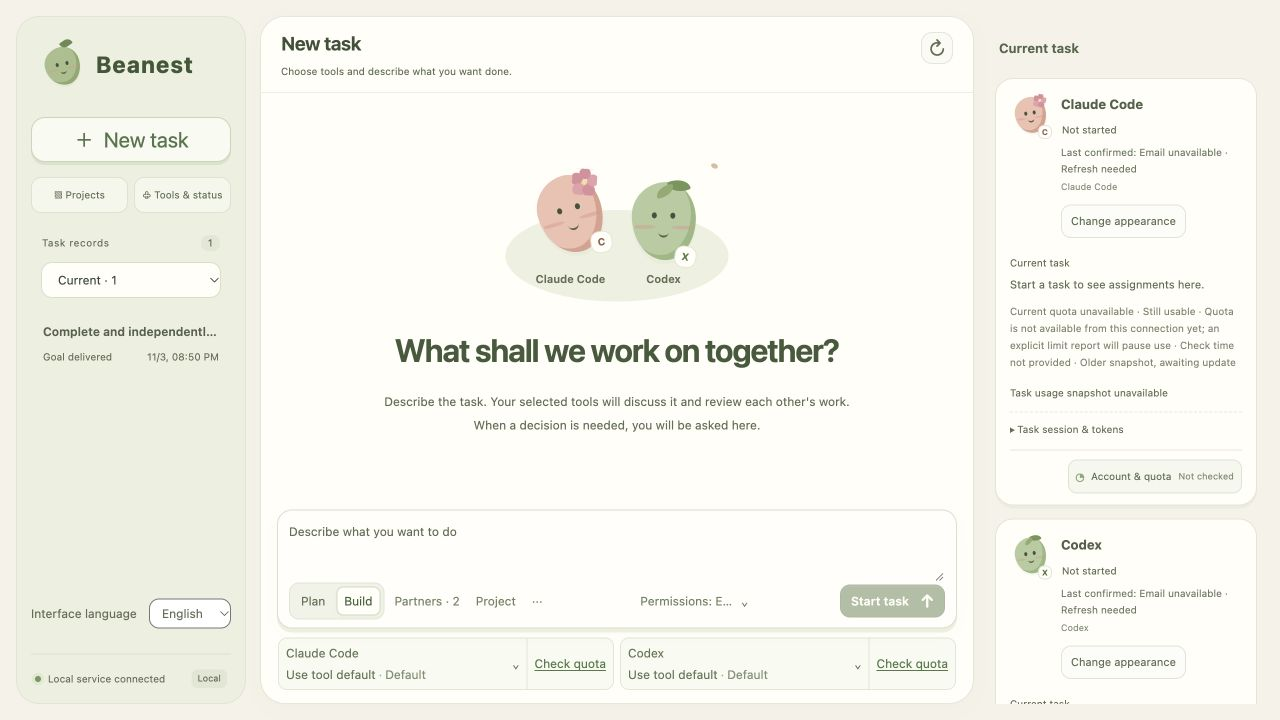
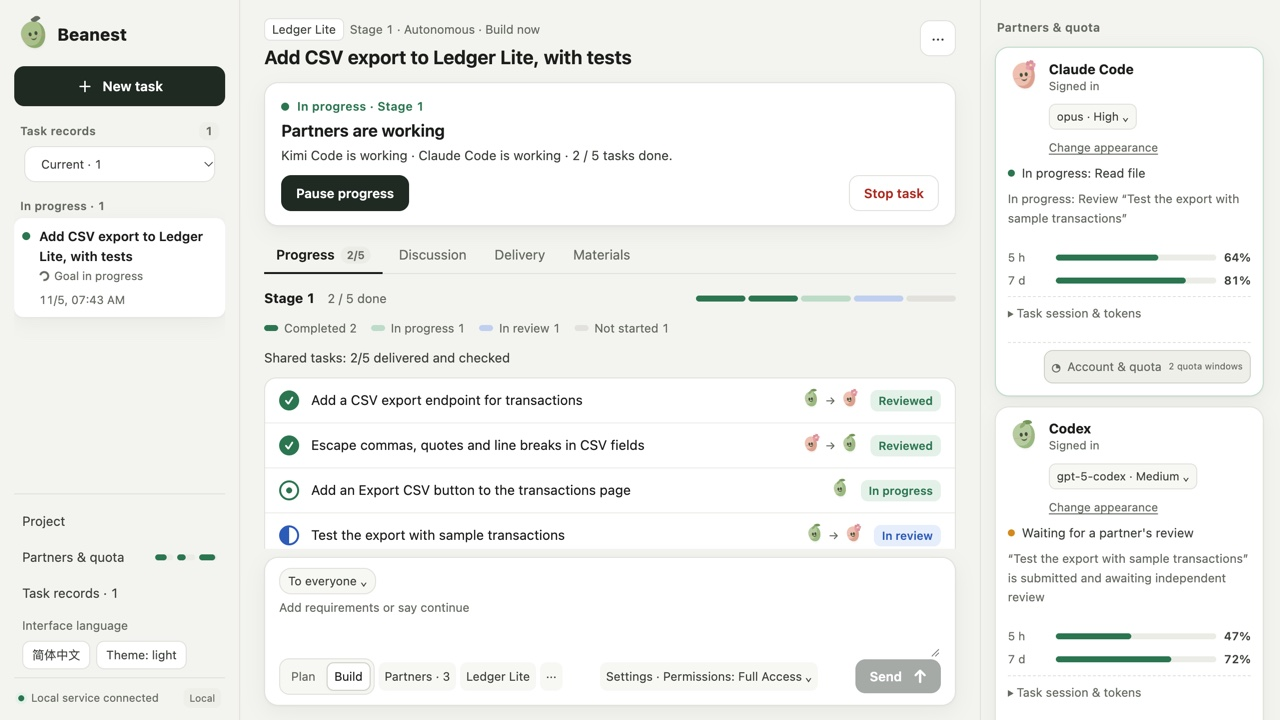
Replace the README screenshots with the new room page on fictional data
The screenshots now show the room page's progress view, light theme, in each
interface language. The room is a fictional "Ledger Lite" CSV export with
Claude Code, Codex and Kimi Code: two tasks peer-reviewed, one in progress,
one in review and one waiting, plus each partner's quota. They come from
scripts/readme-demo.py, which runs a real room server on a throwaway runtime
with stand-in native tools, accounts and model lists, so no model or CLI
runs.

Fixes found while checking the shots at 1280×720:
- partner cards stack name, model and appearance up to 1366px wide, so
  names are not cut;
- the composer's settings button shows the full permission;
- the work strip is hidden outside Discussion, where the card above already
  says who is working, so it no longer covers the task list;
- task titles wrap to two lines in the list, with a 60-character cap;
- "Kimi Code is working" reads as a sentence;
- English "Latest response: " and similar labels end with a space;
- the duplicate tool line is hidden on partner cards;
- the Chinese stage crumb is spaced like the rest.

The dead-key test now counts only whole quoted literals; eight stale
entries it found are removed.

diff --git a/src/local_agent_coordinator/room_ui/i18n-en-c.js b/src/local_agent_coordinator/room_ui/i18n-en-c.js
@@ -57,7 +57,7 @@ Object.assign(window.BeanestI18nEnglish || (window.BeanestI18nEnglish = Object.c
   "调用上限已到": "Call limit reached",
   "本次处理未完成": "This operation did not complete",
   "本轮已停止": "This round has stopped",
-  "协作已停止：": "Collaboration stopped:",
+  "协作已停止：": "Collaboration stopped: ",
   "保留已完成内容，请查看剩余项。": "Completed work is preserved. See the remaining items.",
   "需要你补充信息或作出决定。": "Your input or decision is needed.",
   "正在审核": "Reviewing",
@@ -87,7 +87,7 @@ Object.assign(window.BeanestI18nEnglish || (window.BeanestI18nEnglish = Object.c
   "安排下一步": "Arrange the next step",
   "正在核对本目标的下一阶段安排，没有确认中的在途处理。": "Checking this goal's next stage. No confirmed operation is in progress.",
   "具体阶段待核对。": "The specific stage needs checking.",
-  "处理中 · 最近完成：": "In progress · Last completed:",
+  "处理中 · 最近完成：": "In progress · Last completed: ",
   "正在读文件": "Reading files",
   "正在改文件": "Editing files",
   "正在查找": "Finding items",
@@ -129,8 +129,8 @@ Object.assign(window.BeanestI18nEnglish || (window.BeanestI18nEnglish = Object.c
   "「{p0}」{p1}，具体原因见“进展”": "“{p0}”: {p1}. See Progress for details.",
   "「{p0}」待继续": "“{p0}” to continue",
   "暂无在途任务；交付与验收状态见群聊": "No tasks in progress; see the group chat for delivery and acceptance status",
-  "最近返回异常：": "Latest error:",
-  "最近返回：": "Latest response:",
+  "最近返回异常：": "Latest error: ",
+  "最近返回：": "Latest response: ",
   "还没收到这次工作的进展消息。": "No progress update has been received for this work yet.",
   "暂无在途工作，可在聊天中查看此前进展。": "No work is in progress. Earlier progress is available in the chat.",
   "本次进展原话": "Original progress update",
@@ -237,8 +237,6 @@ Object.assign(window.BeanestI18nEnglish || (window.BeanestI18nEnglish = Object.c
   "这条记录的来源尚未确认。": "The source of this record is unconfirmed.",
   "供应商已明确报告订阅额度用完。已有工具操作不等于任务完成；请查看当前续作入口和额度恢复时间。": "The provider explicitly reported exhausted subscription quota. Tool activity does not mean the task is complete. See current continuation options and quota reset time.",
   "本次处理 {p0} 秒": "This operation took {p0} {p0:second|seconds}",
-  "正在核对下一步": "Checking the next step",
-  "正在讨论": "Discussing",
   "{p0} 等待开始": "{p0} is waiting to start",
   "新任务": "New task",
   "第 {p0} 轮 · ": "Round {p0} · ",
@@ -254,7 +252,7 @@ Object.assign(window.BeanestI18nEnglish || (window.BeanestI18nEnglish = Object.c
   "重新核对目标": "Reassess goal",
   "沿用原目标与权限，重新核对完成情况；不重放旧调用或代你接受。": "Reassess completion using the original goal and permissions. Old calls are not replayed and acceptance is not recorded on your behalf.",
   "这份任务{p0}，聊天和交付仍可阅读。点“管理任务 → 恢复”后可以继续。": "Task status: {p0}. Chats and deliveries remain readable. Use Manage tasks → Restore to continue.",
-  "第{p0}阶段 · ": "Stage {p0} · ",
+  "第 {p0} 阶段 · ": "Stage {p0} · ",
   "自主推进": "Autonomous",
   "逐步推进": "Step by step",
   "方案讨论 · 原目标与进度保留": "Planning discussion · Original goal and progress preserved",
@@ -471,9 +469,7 @@ Object.assign(window.BeanestI18nEnglish || (window.BeanestI18nEnglish = Object.c
   "创建后可以在这里继续。": "Create one to continue here.",
   "本机": "Local",
   "协作群聊": "Group chat",
-  "任务详情": "Task details",
   "任务资料": "Task materials",
-  "只读取状态": "Read status only",
   "停止任务": "Stop task",
   "伙伴当前状态": "Current partner status",
   "核对状态": "Check status",
@@ -513,7 +509,6 @@ Object.assign(window.BeanestI18nEnglish || (window.BeanestI18nEnglish = Object.c
   "伙伴用量与额度": "Partner usage & quota",
   "选好伙伴后，在这里看额度和最近结果用量。": "Select partners to see their quota and latest result usage here.",
   "代码交付、参与工具和进展": "Code delivery, participating tools, and progress",
-  "本次任务": "Current task",
   "收起任务详情": "Collapse task details",
   "收起": "Collapse",
   "代码交付": "Code delivery",
@@ -825,4 +820,9 @@ Object.assign(window.BeanestI18nEnglish || (window.BeanestI18nEnglish = Object.c
   "不用你操作；有伙伴额度恢复后会自动继续。": "Nothing to do; work continues automatically once a partner's quota is back.",
   " · {p0} 个已保存文件": " · {p0} saved {p0:file|files}",
   " · {p0} 个文件": " · {p0} {p0:file|files}",
+  "{p0} 正在结束当前处理": "{p0} is finishing the current step",
+  "{p0} 正在核对上次进度": "{p0} is checking earlier progress",
+  "{p0} 正在核对下一步": "{p0} is checking the next step",
+  "{p0} 正在讨论": "{p0} is discussing",
+  "{p0} 正在处理": "{p0} is working",
 });

diff --git a/src/local_agent_coordinator/room_ui/app.js b/src/local_agent_coordinator/room_ui/app.js
@@ -3133,7 +3133,8 @@ function roomTitle(room) {
   const original = typeof objectiveText === 'string' && objectiveText.trim() ? objectiveText : goalText;
   const goal = typeof original === 'string' ? original.trim().replace(/\s+/g, ' ') : '';
   const firstLine = goal.split(/[。！？\n]/u)[0] || goal;
-  return firstLine.length > 32 ? `${firstLine.slice(0, 32)}…` : firstLine || t("未命名任务");
+  // The list clamps titles to two lines; this cap only bounds very long first sentences (English needs more than 32).
+  return firstLine.length > 60 ? `${firstLine.slice(0, 60)}…` : firstLine || t("未命名任务");
 }
 
 function roomFromLocation() {
@@ -6459,7 +6460,8 @@ function renderMemberPublicProgress(snapshot, member) {
     const text = tool ? `${['started', 'running'].includes(tool.state) ? t("正在") + interfaceLead() : tool.state === 'failed' ? t("最近返回异常：") : t("最近返回：")}${nativeActionName(tool)} · ${timeLabel(tool.created_at)}`
       : active ? t("还没收到这次工作的进展消息。") : t("暂无在途工作，可在聊天中查看此前进展。");
     // The idle line repeats the member's task line, so the card hides it.
-    holder.append(element('p', text, `public-progress-fallback${!tool && !active ? ' idle' : ''}`)); return;
+    // Without a progress message the line only repeats the status above it (idle, or the latest tool action).
+    holder.append(element('p', text, `public-progress-fallback${!active || tool ? ' idle' : ''}`)); return;
   }
   const details = element('details', '', 'public-progress-details'); details.open = expanded;
   const summary = element('summary');
@@ -6962,9 +6964,11 @@ function renderWorkIndicator(snapshot) {
   const jobText = (job) => {
     const name = displayName(job.provider);
     const phase = job.phase || job.team?.job_phase;
-    return `${name} ${objective?.status === 'paused' || objective?.pause_requested ? t("正在结束当前处理") : job.native_partial_inspection || job.partner_handoff_inspection ? t("正在核对上次进度")
-      : ['checkpoint', 'checkpoint_review'].includes(phase) ? t("正在核对下一步")
-        : job.native_readonly_discussion ? t("正在讨论") : t("正在处理")}`;
+    // Whole sentences: "Kimi Code Working" read as a label in English.
+    return objective?.status === 'paused' || objective?.pause_requested ? t("{p0} 正在结束当前处理", { p0: name })
+      : job.native_partial_inspection || job.partner_handoff_inspection ? t("{p0} 正在核对上次进度", { p0: name })
+        : ['checkpoint', 'checkpoint_review'].includes(phase) ? t("{p0} 正在核对下一步", { p0: name })
+          : job.native_readonly_discussion ? t("{p0} 正在讨论", { p0: name }) : t("{p0} 正在处理", { p0: name });
   };
   const value = working.length ? working.map(jobText).join(' · ') : queued.length
     ? t("{p0} 等待开始", { p0: interfaceList([...new Set(queued.map((job) => displayName(job.provider)))]) }) : '';
@@ -7012,7 +7016,7 @@ function renderControls() {
   const teamDelivered = state.snapshot?.collaboration?.mode === 'team' && outcomeState === 'ready_for_user';
   const currentRun = state.snapshot?.current_run;
   const canAnswer = objective?.status === 'needs_user' && objective.can_answer === true;
-  if (objective) $('room-subtitle').textContent = `${Number.isSafeInteger(objective.stage) ? t("第{p0}阶段 · ", { p0: objective.stage }) : ''}${objective.mode === 'autonomous' ? t("自主推进") : t("逐步推进")} · ${workModeCaption}`;
+  if (objective) $('room-subtitle').textContent = `${Number.isSafeInteger(objective.stage) ? t("第 {p0} 阶段 · ", { p0: objective.stage }) : ''}${objective.mode === 'autonomous' ? t("自主推进") : t("逐步推进")} · ${workModeCaption}`;
   if (idleReadOnlyDiscussion()) $('room-subtitle').textContent = t("方案讨论 · 原目标与进度保留");
   $('source-plan-note').hidden = !currentRun?.source_plan;
   $('source-plan-note').textContent = currentRun?.source_plan?.truncated

diff --git a/src/local_agent_coordinator/room_ui/style.css b/src/local_agent_coordinator/room_ui/style.css
@@ -1590,8 +1590,8 @@ textarea { min-height: 52px; font-size: 14px; line-height: 1.7; }
   .app-shell { grid-template-columns: minmax(0, 1fr); }
   .sidebar { display: none; }
 }
-/* A narrow partner column gives the name the whole first row; the model and the appearance link stack below it. */
-@media (max-width: 1180px) {
+/* A narrow partner column (laptop widths) gives the name the whole first row; the model and the appearance link stack below it. */
+@media (max-width: 1366px) {
   .member-heading > div { grid-column: 2 / -1; }
   .member-heading > .member-model { grid-column: 2 / -1; grid-row: 2; justify-self: start; max-width: 100%; }
   .member-heading .appearance-button, html[lang="en"] .member-heading > .appearance-button { grid-column: 2 / -1; grid-row: 3; }
@@ -1604,3 +1604,10 @@ textarea { min-height: 52px; font-size: 14px; line-height: 1.7; }
 .provider-account > summary { flex-wrap: nowrap; }
 .provider-account > summary > span { white-space: nowrap; }
 .provider-account > summary > .quota-summary { min-width: 0; overflow: hidden; text-overflow: ellipsis; }
+/* The settings button names the permission in full; it has room beside the other composer actions. */
+.composer-bottom > #runtime-settings.composer-action { max-width: 260px; }
+/* Outside the chat, the card at the top already says who is working; the strip above the composer would repeat it over the list. */
+.conversation[data-tab="progress"] .work-indicator, .conversation[data-tab="delivery"] .work-indicator,
+.conversation[data-tab="materials"] .work-indicator { display: none; }
+/* Task titles get two lines in the list, as in the design, before they are cut. */
+.room-card-title { display: -webkit-box; white-space: normal; -webkit-line-clamp: 2; -webkit-box-orient: vertical; overflow: hidden; }

diff --git a/src/local_agent_coordinator/room_ui/i18n-en-b.js b/src/local_agent_coordinator/room_ui/i18n-en-b.js
@@ -153,7 +153,6 @@ Object.assign(window.BeanestI18nEnglish || (window.BeanestI18nEnglish = Object.c
   "关联资料尚未核对": "Related material not yet checked",
   "关联资料存在冲突": "Related material has conflicts",
   "本地存储暂不可用": "Local storage temporarily unavailable",
-  "整理": "Clean up",
   "本地整理遇到问题": "A local cleanup issue occurred",
   "任务已永久删除。": "Task permanently deleted.",
   "任务已归档。": "Task archived.",
@@ -559,7 +558,6 @@ Object.assign(window.BeanestI18nEnglish || (window.BeanestI18nEnglish = Object.c
   "包含自检，独立审核范围见详情": "Includes self-checks; see details for independent review coverage",
   "查看检查与文件清单": "View checks and file list",
   "查看检查与交付详情": "View checks and delivery details",
-  "已保存": "Saved",
   " · {p0} 项待处理": " · {p0} pending {p0:item|items}",
   "验证范围待确认": "Verification scope not confirmed",
   " · 文件版本 {p0}": " · File version {p0}",

diff --git a/src/local_agent_coordinator/room_ui/i18n-en-a.js b/src/local_agent_coordinator/room_ui/i18n-en-a.js
@@ -393,8 +393,6 @@ Object.assign(window.BeanestI18nEnglish || (window.BeanestI18nEnglish = Object.c
   "这个文件可下载后查看。": "Download this file to view it.",
   "下载文件": "Download file",
   "附件暂时无法读取。": "This attachment is unreadable right now.",
-  "视频": "Video",
-  "音频": "Audio",
   "图片": "Image",
   "文件": "File",
   "▶ 视频": "▶ Video",
@@ -454,7 +452,6 @@ Object.assign(window.BeanestI18nEnglish || (window.BeanestI18nEnglish = Object.c
   "当前任务": "Current task",
   "{p0}{p1}剩余 {p2}%": "{p0}{p1} {p2}% remaining",
   "上次：": "Previous: ",
-  "窗口": "Window",
   "账号额度": "Account quota",
   "{p0}取得 {p1} 个额度窗口": "{p0} retrieved {p1} quota {p1:window|windows}",
   "上次": "Previously",

diff --git a/scripts/readme-demo.py b/scripts/readme-demo.py
@@ -1,0 +1,207 @@
+"""Serve a fictional Beanest room for the README screenshots; no model or CLI ever runs.
+
+    PYTHONPATH=src python scripts/readme-demo.py <empty-runtime-dir> 8795 en   # or zh
+
+Open the printed room at 1280×720 in the light theme and the matching interface
+language. Native tools, account checks and model listings are stand-ins, so the
+room stays in the same state: two tasks peer-reviewed, one in progress, one in
+review and one waiting on a dependency.
+"""
+import asyncio
+import http.client
+import json
+import subprocess
+import sys
+import threading
+import time
+from pathlib import Path
+from uuid import NAMESPACE_URL, uuid5
+
+from local_agent_coordinator import room_server
+from local_agent_coordinator.agent_registry import default_registry
+from local_agent_coordinator.partner_manager import PartnerManager
+from local_agent_coordinator.room_service import RoomService
+
+RUNTIME, PORT, LANG = Path(sys.argv[1]).resolve(), int(sys.argv[2]), sys.argv[3]
+EN = LANG == "en"
+
+COPY = {
+    "goal": "Add CSV export to Ledger Lite, with tests"
+            if EN else "给 Ledger Lite 加上 CSV 导出，补测试和使用说明",
+    "project": "Ledger Lite",
+    "tasks": [
+        ("export-endpoint", "Add a CSV export endpoint for transactions" if EN else "新增交易记录的 CSV 导出接口", "codex", "app/export.py"),
+        ("csv-escaping", "Escape commas, quotes and line breaks in CSV fields" if EN else "处理 CSV 字段里的逗号、引号和换行", "claude", "app/csv_format.py"),
+        ("export-button", "Add an Export CSV button to the transactions page" if EN else "在交易页加上“导出 CSV”按钮", "kimi", "app/templates/transactions.html"),
+        ("export-tests", "Test the export with sample transactions" if EN else "用示例交易数据测试导出", "codex", "tests/test_export.py"),
+        ("readme-guide", "Document CSV export in the README" if EN else "在 README 里写清 CSV 导出用法", "claude", "README.md"),
+    ],
+    "plan": "I'll take the parts I own and review the others." if EN else "我认领自己负责的部分，其余的帮忙互审。",
+    "done": "Done and checked against the acceptance criteria." if EN else "已完成，并按验收标准自查。",
+    "review": "Checked the exact file and the acceptance criteria." if EN else "核对了交付文件和验收标准。",
+}
+DEPENDS = {"export-tests": ["export-endpoint"], "readme-guide": ["export-button"]}
+# Reviews of these finish; any other review stays in progress for the screenshot.
+FINISHED = {"export-endpoint", "csv-escaping"}
+HOLD = asyncio.Event()  # never set: in-progress work stays in progress for the screenshot
+
+
+def project_folder():
+    """A small fictional app; nothing here comes from a real project."""
+    root = RUNTIME / "sample" / "ledger-lite"
+    files = {
+        "README.md": "# Ledger Lite\n\nA tiny budgeting app for tracking income and expenses.\n",
+        "app/__init__.py": "",
+        "app/models.py": "from dataclasses import dataclass\n\n\n@dataclass\nclass Transaction:\n    date: str\n    payee: str\n    amount: float\n    category: str\n",
+        "app/routes.py": "def list_transactions(store):\n    return store.all()\n",
+        "app/templates/transactions.html": "<h1>Transactions</h1>\n<table id=\"transactions\"></table>\n",
+        "tests/test_models.py": "from app.models import Transaction\n\n\ndef test_transaction_fields():\n    assert Transaction('2026-01-02', 'Cafe', -4.5, 'Food').payee == 'Cafe'\n",
+    }
+    for path, text in files.items():
+        target = root / path
+        target.parent.mkdir(parents=True, exist_ok=True)
+        target.write_text(text)
+    if not (root / ".git").exists():
+        env = {"GIT_AUTHOR_NAME": "Sample", "GIT_AUTHOR_EMAIL": "sample@example.invalid",
+               "GIT_COMMITTER_NAME": "Sample", "GIT_COMMITTER_EMAIL": "sample@example.invalid", "PATH": "/usr/bin:/bin"}
+        for command in (["git", "init", "-q", "-b", "main"], ["git", "add", "-A"], ["git", "commit", "-q", "-m", "Initial sample app"]):
+            subprocess.run(command, cwd=root, check=True, env=env)
+    return root
+
+
+def native_reply(context, commands=(), *, message):
+    from local_agent_coordinator.room_response_schema import command_shape
+    _, fields = command_shape(team_phase=context["job"]["job_phase"], can_propose=context["self"] == context["team"]["plan_author"],
+                              has_peers=len(context["members"]) > 1, native=True)
+    return {"message": message, "state": "done", "commands": [{field: command.get(field) for field in fields} for command in commands],
+            "base_revision": context["proposal_base_revision"], "files": [], "edits": [], "unchanged_paths": [], "resolved_conflicts": []}
+
+
+async def native(agent, prompt, cwd, session_id=None, timeout=None, **options):
+    """Stands in for the native CLIs: edits the private copy and answers in the native shape."""
+    try:
+        context = json.loads(prompt.split("CONTEXT DATA:\n", 1)[1])
+        phase, board, cwd = context["job"]["job_phase"], context["team"], Path(cwd)
+        held = (phase == "work" and context.get("task", {}).get("id") == "export-button"
+                or phase == "review" and context.get("task", {}).get("id") not in FINISHED)
+        activity = {"type": "native_tool", "operation": "edit_file" if phase == "work" else "read_file",
+                    "state": "running" if held else "completed"}
+        options["on_activity"](activity)
+        if phase in {"plan", "coordinate"}:
+            visible = {item["id"]: item for item in board["tasks"]}
+            commands = []
+            if not visible and agent == board["plan_author"]:
+                commands = [{"type": "propose", "id": key, "title": title, "description": title, "acceptance": title,
+                             "dependencies": DEPENDS.get(key, []), "write_paths": [path], "capability": "python"}
+                            for key, title, _, path in COPY["tasks"]]
+                visible = {key: {"owner": None} for key, *_ in COPY["tasks"]}
+            commands += [{"type": "claim", "task_id": key} for key, _, owner, _ in COPY["tasks"]
+                         if owner == agent and key in visible and visible[key]["owner"] is None]
+            if visible:
+                commands.append({"type": "plan_ready"})
+            value = native_reply(context, commands, message=COPY["plan"])
+        elif phase == "review":
+            key = context["task"]["id"]
+            if key not in FINISHED:
+                await HOLD.wait()
+            value = native_reply(context, [{"type": "review", "task_id": key, "verdict": "accept", "reason": COPY["review"]}],
+                                 message=COPY["review"])
+        elif phase == "work":
+            key, path = context["task"]["id"], context["task"]["write_paths"][0]
+            if key == "export-button":
+                await HOLD.wait()
+            target = cwd / path
+            target.parent.mkdir(parents=True, exist_ok=True)
+            target.write_text(f"# {key}\n")
+            value = native_reply(context, [{"type": "complete", "task_id": key, "result": COPY["done"]}], message=COPY["done"])
+        else:
+            value = native_reply(context, message=COPY["done"])
+        observation = dict(permission=options["permission"], tool_calls=1, tool_results=1,
+                           side_effects_possible=phase == "work", cleanup_confirmed=True, exit_code=0, duration_seconds=0.01)
+        return {"session_id": session_id or str(uuid5(NAMESPACE_URL, f"{agent}:{cwd}")), "status": "completed", "usage": None,
+                "events": [activity], "cleanup_confirmed": True, "native_execution": observation, "text": json.dumps(value)}
+    except Exception:
+        import traceback
+        traceback.print_exc()
+        raise
+
+
+async def provider(*args, **kwargs):
+    raise AssertionError("a native sample room never uses the static provider")
+
+
+def fictional_accounts(manager, now):
+    def account(adapter, source, quota_source, windows):
+        return {"state": "ready", "email": None, "plan": None, "auth_method": None, "source": source,
+                "scope": "default_cli_login", "checked_at": now, "stale": False, "reason": None, "shared_profile_ids": [],
+                "quota": {"state": "available", "windows": windows, "source": quota_source, "scope": "provider_account",
+                          "checked_at": now, "stale": False, "reason": None}}
+    window = lambda name, left, minutes, hours: {"name": name, "remaining_percent": left, "used_percent": 100 - left,
+                                                 "window_minutes": minutes, "resets_at": now + hours * 3600}
+    manager._account_cache.update({
+        "claude": account("claude", "claude_auth_status", "claude_auth_status",
+                          [window("claude:five_hour", 64, 300, 2), window("claude:seven_day", 81, 10080, 70)]),
+        "codex": account("codex", "codex_app_server", "codex_app_server_account_rate_limits",
+                         [window("codex:primary", 47, 300, 3), window("codex:secondary", 72, 10080, 90)]),
+        "kimi": account("kimi", "kimi_managed_oauth", "kimi_managed_oauth", [window("kimi:limit5h", 88, 300, 4)]),
+    })
+
+
+async def no_cli(self, *args, **kwargs):
+    """Account and availability checks would run real CLIs; the sample keeps its fixed values."""
+    return self.get(args[0]) if args else None
+
+
+PartnerManager.refresh_account = no_cli
+PartnerManager.refresh_availability = lambda self, *args, **kwargs: asyncio.sleep(0)
+RoomService.expire_tasks = lambda self: asyncio.sleep(0)
+
+
+async def listed_options(self, partner_id):
+    return await self.runtime_options()
+
+
+RoomService.refresh_runtime_options = listed_options
+
+
+def main():
+    RUNTIME.mkdir(parents=True, exist_ok=True, mode=0o700)
+    manager = PartnerManager(RUNTIME / "partners", default_registry(), startup_discovery=False)
+    if not any(profile["id"] == "kimi" for profile in manager.profiles()):
+        manager.add(id="kimi", name="Kimi Code", adapter="kimi")
+    fictional_accounts(manager, time.time())
+    service = RoomService(RUNTIME / "rooms.sqlite3", RUNTIME / "workspaces", invoke=provider, partners=manager, native_invoke=native)
+    # Fixed model lists stand in for each CLI's own model listing.
+    catalog = lambda *models: {"state": "ready", "checked_at": time.time(), "models": [
+        {"id": model, "name": name, "efforts": efforts} for model, name, efforts in models]}
+    service._runtime_catalogs.update({
+        "claude": catalog(("opus", "Opus", ["low", "medium", "high"])),
+        "codex": catalog(("gpt-5-codex", "GPT-5 Codex", ["low", "medium", "high"])),
+        "kimi": catalog(("kimi-k2", "Kimi K2", []))})
+    server = room_server.create_room_server(service, port=PORT)
+    room_server.publish_connection(server, RUNTIME)
+    folder = project_folder()
+    print(server.url, flush=True)
+    thread = threading.Thread(target=server.serve_forever, daemon=True)
+    thread.start()
+
+    def request(method, path, body=None):
+        connection = http.client.HTTPConnection("127.0.0.1", PORT, timeout=10)
+        headers = {"X-LAC-Token": server.token, "Content-Type": "application/json"}
+        connection.request(method, path, body=json.dumps(body) if body is not None else None, headers=headers)
+        response = connection.getresponse()
+        return response.status, json.loads(response.read())
+    code, project = request("POST", "/api/projects", {"name": COPY["project"], "path": str(folder), "selection_kind": "folder"})
+    print("project", code, project.get("error"), flush=True)
+    code, room = request("POST", "/api/rooms", {
+        "goal": COPY["goal"], "target": "all", "request_id": "readme-sample-" + LANG, "mode": "native_project",
+        "project_id": project["project"]["id"], "work_mode": "build", "participants": ["claude", "codex", "kimi"],
+        "collaboration": True, "runtime_settings": {"permission": "full_access", "members": {
+            "claude": {"model": "opus", "effort": "high"}, "codex": {"model": "gpt-5-codex", "effort": "medium"},
+            "kimi": {"model": "kimi-k2", "effort": None}}},
+        "execution_policy": {"mode": "autonomous", "max_seconds": None, "max_calls": None, "quota_failover": True}})
+    print("room", code, room.get("error") or room["room"]["id"], flush=True)
+    thread.join()
+
+
+main()

diff --git a/README.md b/README.md
@@ -8,7 +8,7 @@ Give Beanest a goal, choose your installed agents, and follow their work in one 
 
 Beanest is an independent, early-stage project for a single user on their own computer. The desktop launcher currently targets macOS. You can also run the same interface in a local browser. It is not affiliated with OpenAI, Anthropic, or Moonshot AI.
 
-![Beanest interface](docs/assets/beanest-en.jpg)
+![Beanest room page: three partners split a sample task, with peer-reviewed work, work in progress and each partner's quota](docs/assets/beanest-en.jpg)
 
 *A demonstration with fictional data; no real agent calls.*
 

diff --git a/README.zh-CN.md b/README.zh-CN.md
@@ -8,7 +8,7 @@
 
 这是一个独立的早期项目，面向用户自己的电脑和单用户场景。桌面启动器目前面向 macOS，也可以在本机浏览器使用相同界面。项目与 OpenAI、Anthropic、Moonshot AI 没有官方隶属或背书关系。
 
-![Beanest interface](docs/assets/beanest-zh-CN.jpg)
+![豆窝任务页：三位伙伴分工处理一个示例任务，能看到已互审的任务、进行中的工作和每位伙伴的额度](docs/assets/beanest-zh-CN.jpg)
 
 *使用虚构数据的界面示例，没有调用真实模型。*
 
